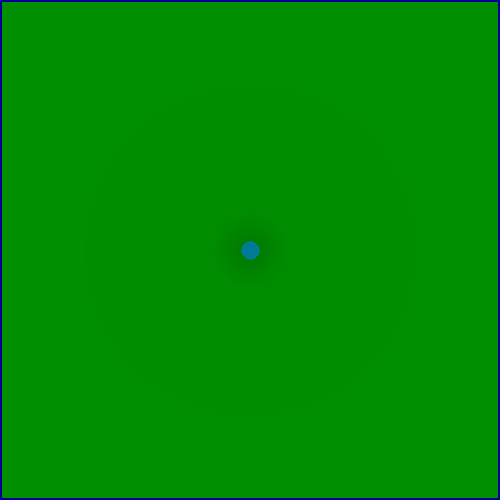
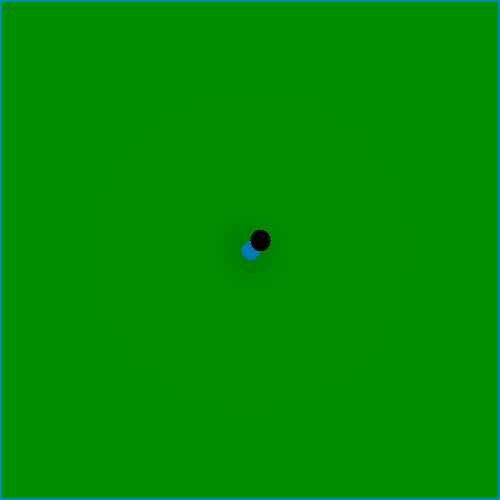
synchronized the arrow and slider

Changed region(s): [[0.0, 0.0, 1.0, 1.0], [0.48, 0.45, 0.54, 0.54]]

diff --git a/src/main/java/ui/ThirdScreenController.java b/src/main/java/ui/ThirdScreenController.java
@@ -152,20 +152,16 @@ public class ThirdScreenController {
             GraphicsContext gc = ballCanvas.getGraphicsContext2D();
             gc.clearRect(0, 0, ballCanvas.getWidth(), ballCanvas.getHeight());
     
-            double centerX = ballCanvas.getWidth() / 2;
-            double centerY = ballCanvas.getHeight() / 2;
-    
-            double ballRadius = 5; // Changed for better visibility
             double ballX = Utility.coordinateToPixel_X(startBallPostion[0]);
             double ballY = Utility.coordinateToPixel_Y(startBallPostion[1]);
     
             gc.setFill(javafx.scene.paint.Color.WHITE);
-            gc.fillOval(ballX - ballRadius / 2, ballY - ballRadius / 2, ballRadius, ballRadius);
+            gc.fillOval(ballX - 5, ballY - 5, 10, 10);
     
             double[] directionVector = circularSlider.getDirectionVector();
             double arrowLength = powerSlider.getValue() * 5;
             double arrowX = ballX + directionVector[0] * arrowLength;
-            double arrowY = ballY + directionVector[1] * arrowLength;
+            double arrowY = ballY - directionVector[1] * arrowLength; 
     
             gc.setStroke(javafx.scene.paint.Color.RED);
             gc.setLineWidth(2);
@@ -184,7 +180,7 @@ public class ThirdScreenController {
     
     private void drawArrowhead(GraphicsContext gc, double x, double y, double[] direction) {
         double arrowHeadSize = 10;
-        double angle = Math.atan2(direction[1], direction[0]);
+        double angle = Math.atan2(-direction[1], direction[0]); 
     
         double x1 = x - arrowHeadSize * Math.cos(angle - Math.PI / 6);
         double y1 = y - arrowHeadSize * Math.sin(angle - Math.PI / 6);

diff --git a/src/main/java/ui/CircularSlider.java b/src/main/java/ui/CircularSlider.java
@@ -38,9 +38,9 @@ public class CircularSlider extends Region {
         gc.setLineWidth(2);
         gc.strokeOval(centerX - radius, centerY - radius, radius * 2, radius * 2);
 
-        double angle = Math.toRadians(value.get() * 360 / maxValue.get());
-        double indicatorX = centerX + radius * Math.cos(angle);
-        double indicatorY = centerY + radius * Math.sin(angle);
+        double angle = Math.toRadians((value.get() / maxValue.get()) * 360);
+        double indicatorX = centerX + radius * Math.cos(angle - Math.PI / 2);
+        double indicatorY = centerY + radius * Math.sin(angle - Math.PI / 2);
 
         gc.setFill(Color.RED);
         gc.fillOval(indicatorX - 3, indicatorY - 3, 6, 6);
@@ -57,12 +57,12 @@ public class CircularSlider extends Region {
         double dx = event.getX() - centerX;
         double dy = event.getY() - centerY;
 
-        double angle = Math.atan2(dy, dx);
+        double angle = Math.atan2(dy, dx) + Math.PI / 2;
         if (angle < 0) {
             angle += 2 * Math.PI;
         }
 
-        double newValue = angle * maxValue.get() / (2 * Math.PI);
+        double newValue = (angle / (2 * Math.PI)) * maxValue.get();
         value.set(newValue);
         drawSlider();
     }
@@ -89,9 +89,10 @@ public class CircularSlider extends Region {
     }
 
     public double[] getDirectionVector() {
-        double angle = Math.toRadians(value.get() * 360 / maxValue.get());
+        double angle = Math.toRadians((value.get() / maxValue.get()) * 360 - 90);
         double x = Math.cos(angle);
         double y = Math.sin(angle);
-        return new double[]{x, y};
+        return new double[]{x, -y};
     }
+    
 }

diff --git a/src/main/java/ui/MapPageController.java b/src/main/java/ui/MapPageController.java
@@ -185,6 +185,7 @@ public class MapPageController {
             if (mapSize == 50) {
                 GraphicsContext gc = drawingCanvas.getGraphicsContext2D();
                 gc.setFill( Color.rgb(0, 0, 150));
+                // 12???
                 gc.setLineWidth(12);
 
                 gc.fillRect(0, 0, 500, 2);
